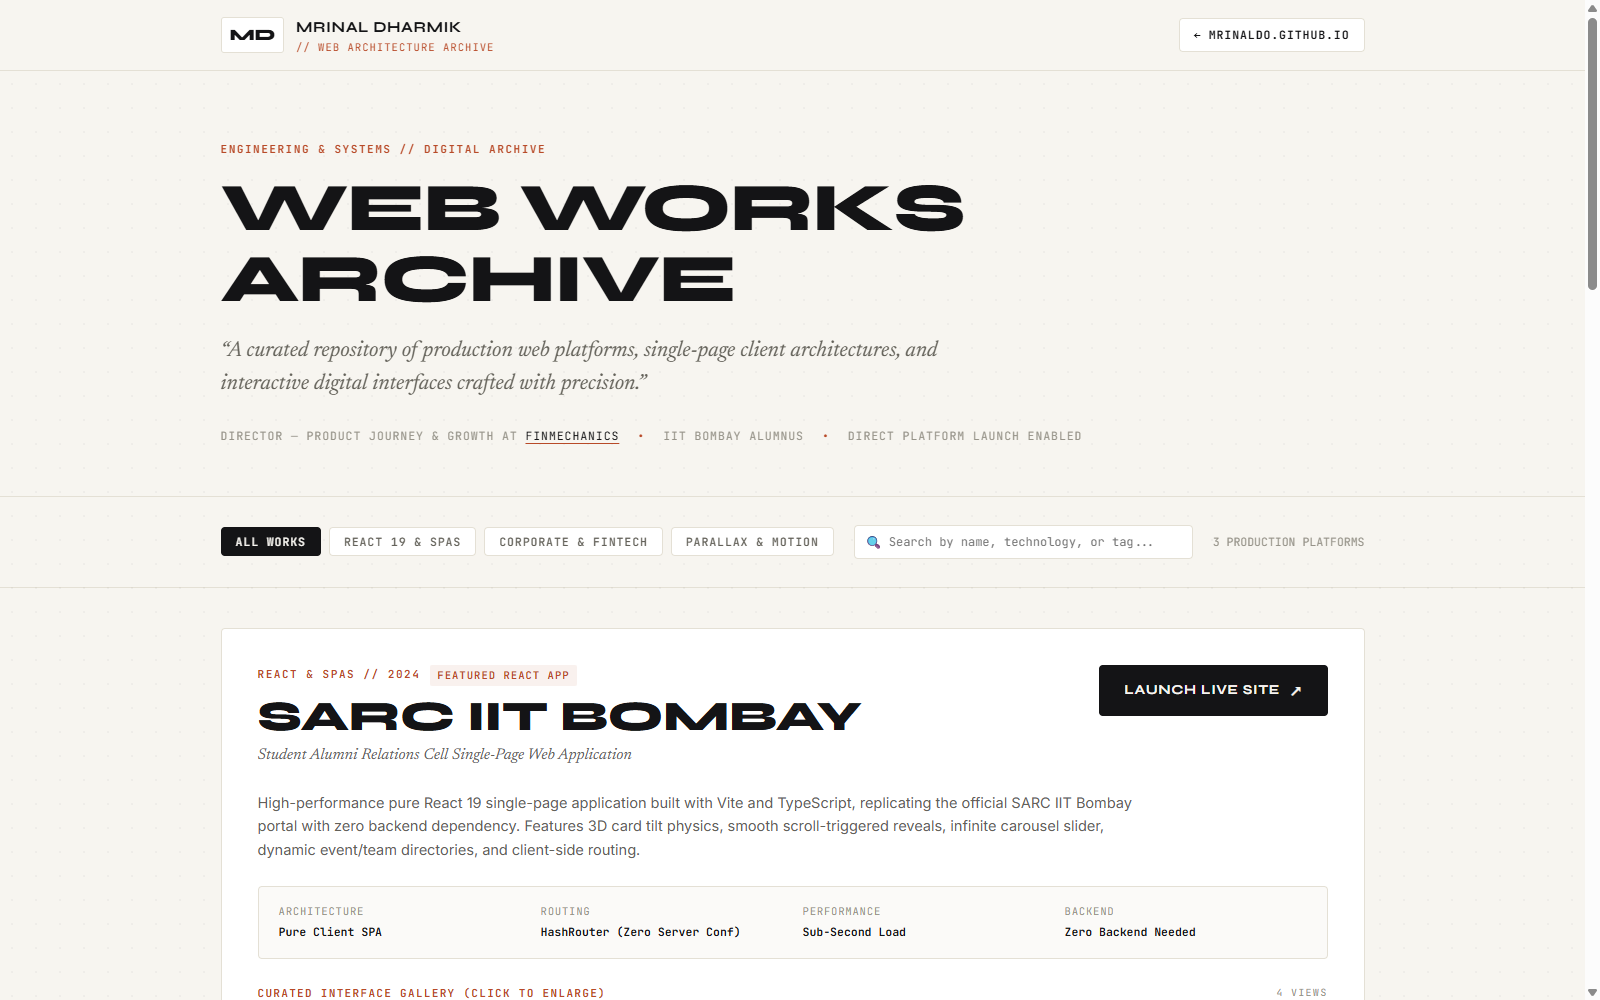
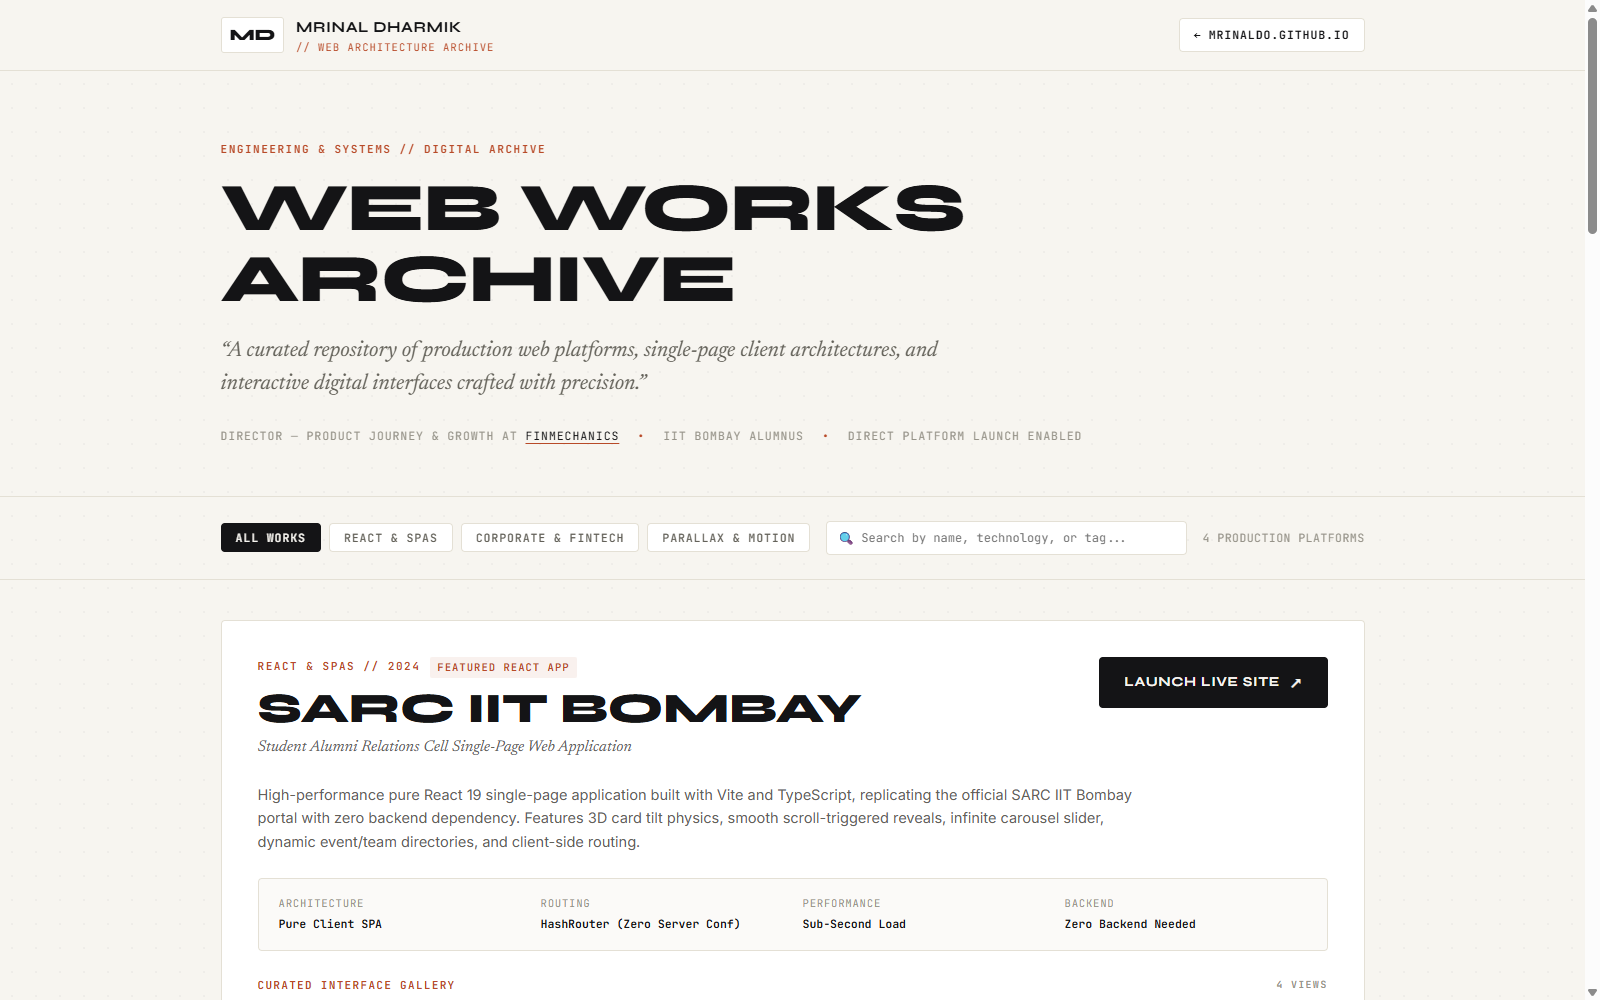
Add SARC Blog to Web Works Archive aggregation

diff --git a/src/data/projects.ts b/src/data/projects.ts
@@ -57,13 +57,13 @@ export const PROJECTS: Project[] = [
     id: 'web-archive',
     title: 'Web Works Archive',
     subtitle: 'Curated Production Web Platforms & Interactive Systems',
-    description: 'A central portfolio aggregation hub and companion digital archive preserving standalone production web platforms, single-page React applications, and interactive digital interfaces engineered across the years. Curates live deployments including SARC IIT Bombay (React 19 SPA), Auronova Consulting (Fintech & Lottie Motion), and Alumination \'17 (Skrollr Parallax) with zero-backend static architectures and live in-browser playback.',
+    description: 'A central portfolio aggregation hub and companion digital archive preserving standalone production web platforms, single-page React applications, and interactive digital interfaces engineered across the years. Curates live deployments including SARC IIT Bombay (React 19 SPA), SARC Blog (Editorial React SPA), Auronova Consulting (Fintech & Lottie Motion), and Alumination \'17 (Skrollr Parallax) with zero-backend static architectures and live in-browser playback.',
     tags: ['Portfolio Archive', 'React 19 & SPAs', 'Parallax Motion', 'Corporate Fintech', 'GitLab Pages', 'Zero Backend'],
     highlights: [
       'SARC IIT Bombay: Pure React 19 single-page app with 3D tilt cards, dynamic carousels & zero backend',
+      'SARC Blog: Zero-backend React 18 editorial platform preserving 17 historical IIT Bombay works & search',
       'Auronova Consulting: 40+ page enterprise risk consultancy portal with bespoke Lottie & SVG motion UX',
-      'Alumination \'17: Flagship IIT Bombay convention portal with Skrollr parallax mechanics & vector animation',
-      'Central aggregation engine featuring category filters, search indexing, full-resolution lightboxes & direct launches'
+      'Alumination \'17: Flagship IIT Bombay convention portal with Skrollr parallax mechanics & vector animation'
     ],
     liveUrl: 'https://mrinaldo.gitlab.io/',
     githubUrl: 'https://gitlab.com/Mrinaldo/mrinaldo.gitlab.io',

diff --git a/src/data/archivedSites.ts b/src/data/archivedSites.ts
@@ -29,6 +29,33 @@ export const ARCHIVED_SITES: ArchivedSite[] = [
     ],
   },
   {
+    id: 'sarc-blog',
+    title: 'SARC Blog',
+    subtitle: 'Editorial Stories, Heritage & Alumni Dialogue Portal // IIT Bombay',
+    category: 'React & SPAs',
+    year: '2017 - 2024',
+    role: 'Full-Stack Engineer & Frontend Architect',
+    summary: 'Pure React 18 single-page editorial publication platform built with Vite, preserving historical stories, phonathons, interviews, and campus heritage of IIT Bombay. Re-engineered from Django to a zero-backend client-side SPA with real-time text search, instant tag filtering, reading view overlays, and responsive typography.',
+    tags: ['React 18', 'Vite', 'Client-Side Search', 'Zero Backend', 'Responsive Typography', 'IIT Bombay'],
+    liveUrl: 'https://mrinaldo.gitlab.io/sarc-blog/index.html',
+    image: '/images/projects/sarc-blog.png',
+    caption: 'SARC BLOG · EDITORIAL HERITAGE SPA & INSTANT CLIENT SEARCH',
+    badge: 'Editorial React App',
+    stats: [
+      { label: 'Architecture', value: 'Pure Client SPA' },
+      { label: 'Articles Preserved', value: '17 Full Works' },
+      { label: 'Search Engine', value: 'Instant Client Filter' },
+      { label: 'Backend Dependency', value: '0% (Pure Static)' },
+    ],
+    highlights: [
+      'Modernized from a legacy Django application into a lightning-fast React 18 + Vite static single-page application',
+      'Real-time client-side search engine and multi-tag filtering with automatic URL hash synchronization',
+      'Full-screen reading view with smooth slide animations, reading time estimations, and interactive like counters',
+      'Preserves 17 authentic historical articles including ISRO Chairman appointment, Ola Cabs early rise, and IITB campus heritage',
+      'Zero server dependencies: 100% client-rendered and deployable seamlessly on GitLab Pages with instant load times',
+    ],
+  },
+  {
     id: 'auronova',
     title: 'Auronova Consulting',
     subtitle: 'Global Financial Risk Management & Analytics Consultancy Platform',

diff --git a/src/components/EngineeringSection.tsx b/src/components/EngineeringSection.tsx
@@ -404,7 +404,7 @@ export const EngineeringSection: React.FC = () => {
                                 </span>
                               </div>
 
-                              <div className="grid grid-cols-1 md:grid-cols-3 gap-4">
+                              <div className="grid grid-cols-1 sm:grid-cols-2 lg:grid-cols-4 gap-4">
                                 {ARCHIVED_SITES.map((site) => (
                                   <div
                                     key={site.id}

diff --git a/README.md b/README.md
@@ -16,7 +16,7 @@ The site introduces a reactive dual-state system toggled via the navbar or keybo
   - **Mriter**: Desktop novel writing & publishing studio (Electron, React 19, TipTap, William Shunn format export, EPUB 3 generator).
   - **Mrews**: Knowledge-first curated news feed with dynamic multi-factor affinity scoring (Next.js 15, Supabase, PostgreSQL).
   - **Mreader**: Minimalist distraction-free e-reader engine (React 19, Foliate-js, Dexie IndexedDB).
-  - **Web Works Archive**: Portfolio aggregation hub preserving standalone production web platforms (SARC IIT Bombay, Auronova Consulting, Alumination '17) ([mrinaldo.gitlab.io](https://mrinaldo.gitlab.io/)).
+  - **Web Works Archive**: Portfolio aggregation hub preserving standalone production web platforms (SARC IIT Bombay, SARC Blog, Auronova Consulting, Alumination '17) ([mrinaldo.gitlab.io](https://mrinaldo.gitlab.io/)).
   - **EventsJournal**: Social event community platform with Supabase RLS.
 
 ### ✒ Artisan Mode (Craft & Scribe)
